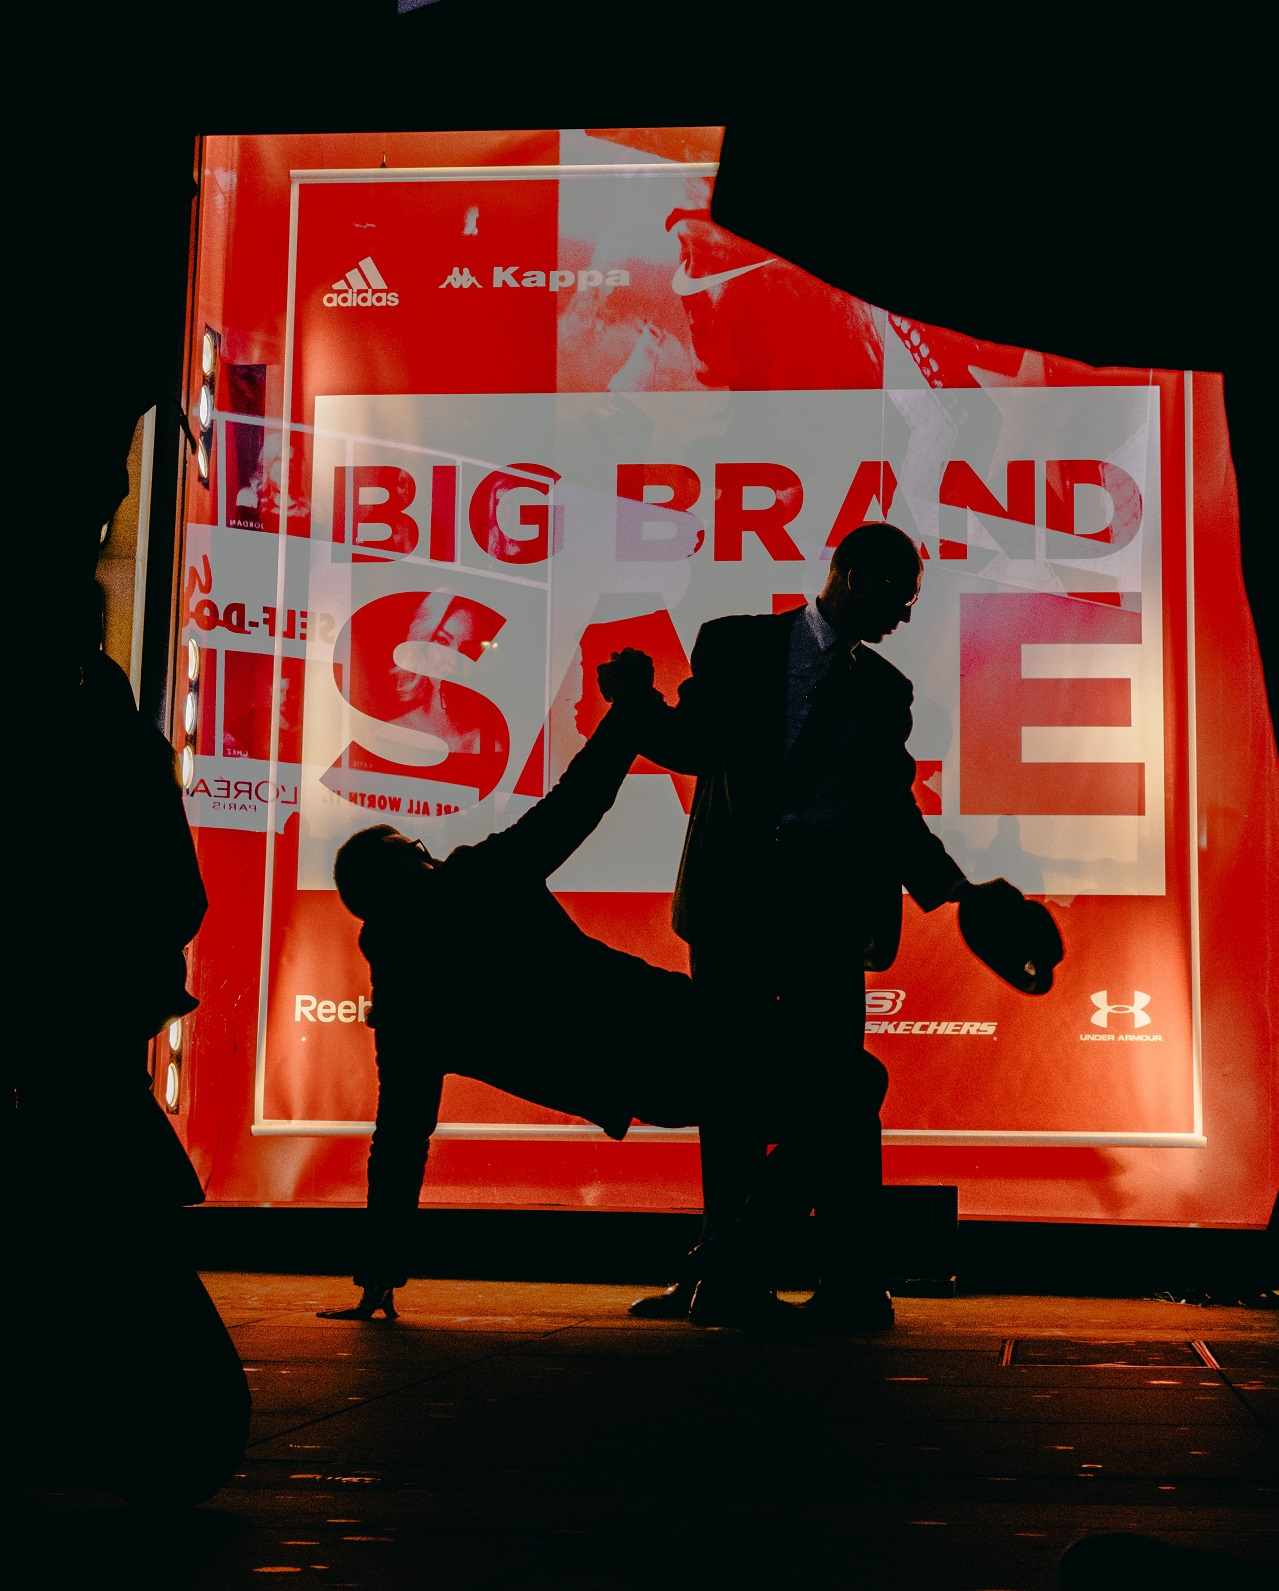
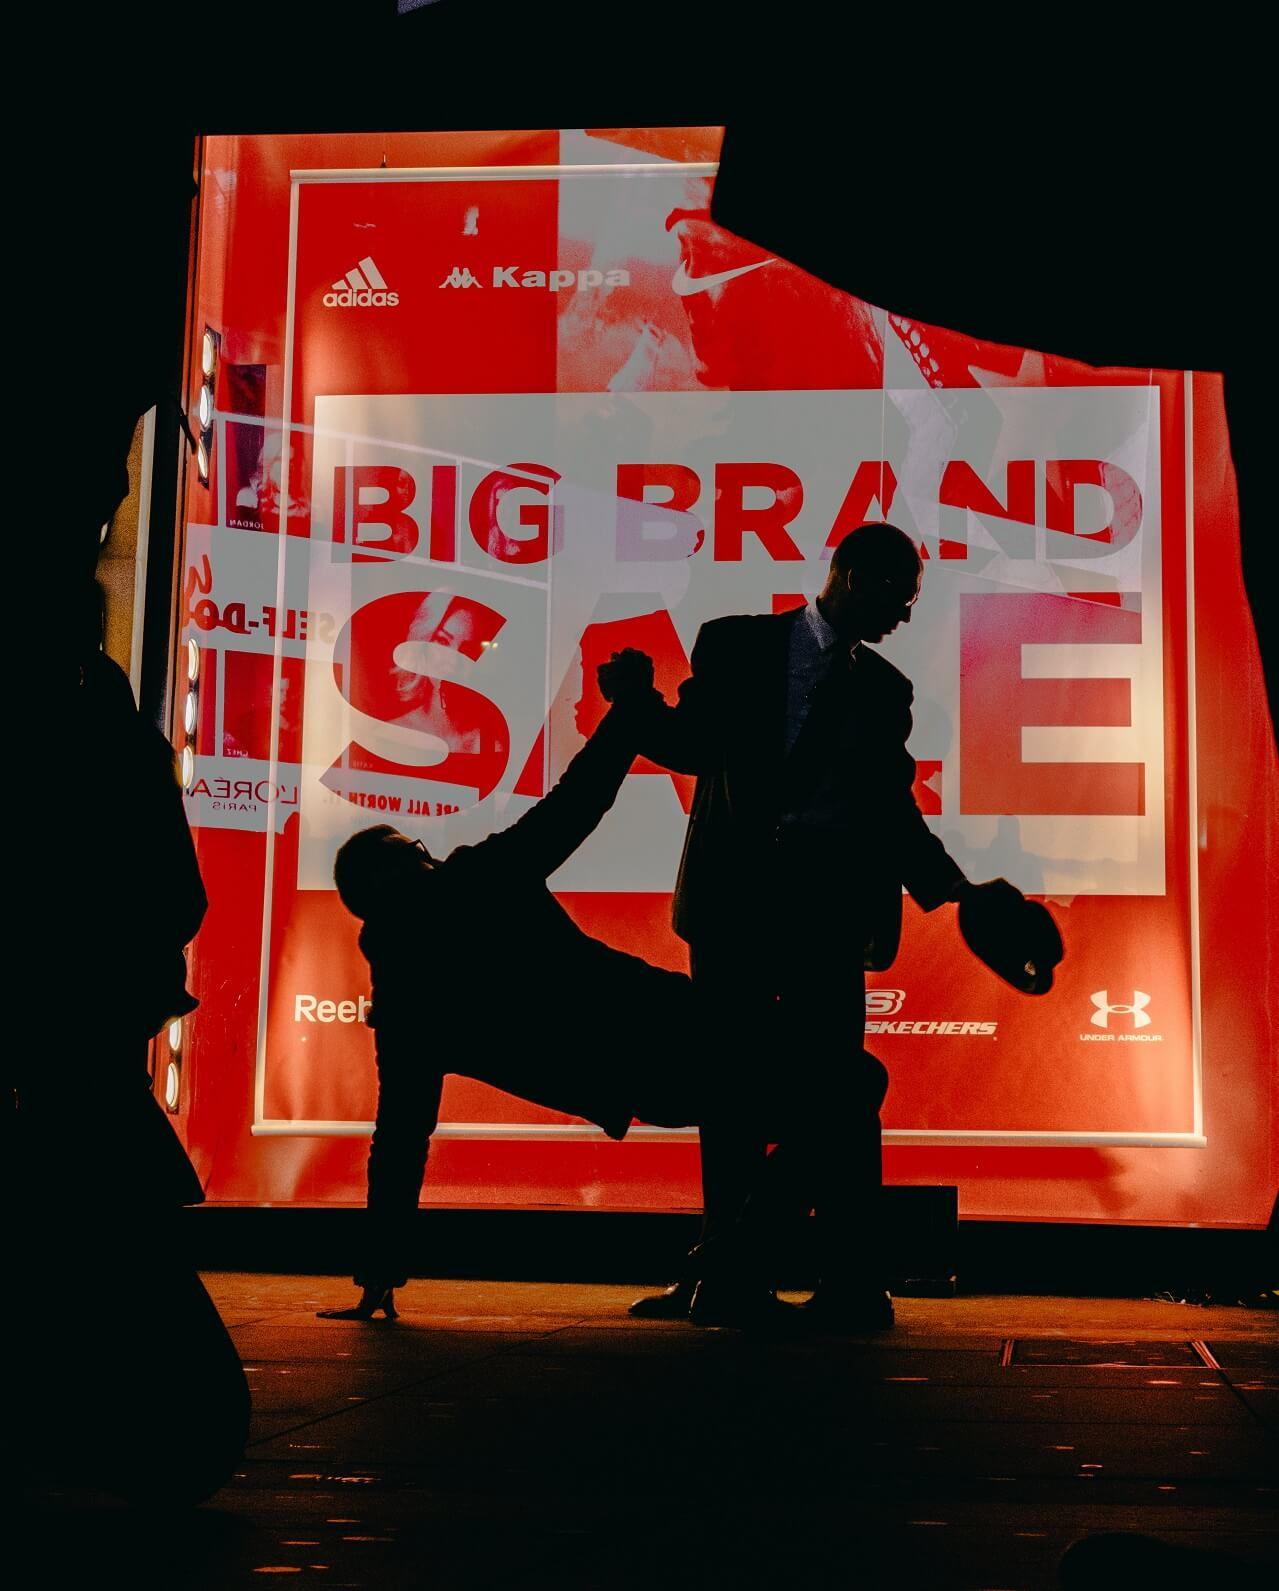
tiny jpg + bugfix

diff --git a/layouts/layout2/layout2.html b/layouts/layout2/layout2.html
@@ -93,7 +93,7 @@
         </div>
       </div>
       <!-- section2 -->
-      <div class="jumbotron jumbotron-fluid my-0 pt-0 pb-0">
+      <div class="jumbotron jumbotron-fluid my-0 pt-0 pb-0 overflow-hidden">
           <img id="jumbotron-img" class="img img-fluid overflow-hidden"src="img/background-1.jpg" alt="background">
           <div id="jumbotron-text" class="text-white">
             <h1 id="jumbotron-text-content" class="display-1 mt-1 mb-3 font-weight-light">Fashion Week <b class="d-block">Meu Ecommerce '20</b>

diff --git a/layouts/layout2/css/layout2.css b/layouts/layout2/css/layout2.css
@@ -319,9 +319,13 @@
 @media only screen and (min-width: 768px) and (max-width: 992px) {
   #jumbotron-text-content {
     font-size:3.6rem;
+    overflow: hidden;
+    box-sizing: border-box;
   }
   #jumbotron-text {
     left: 60px;
+    overflow: hidden;
+    box-sizing: border-box;
   }
 }
 @media only screen and (min-width: 992px) and (max-width: 1199px) {
